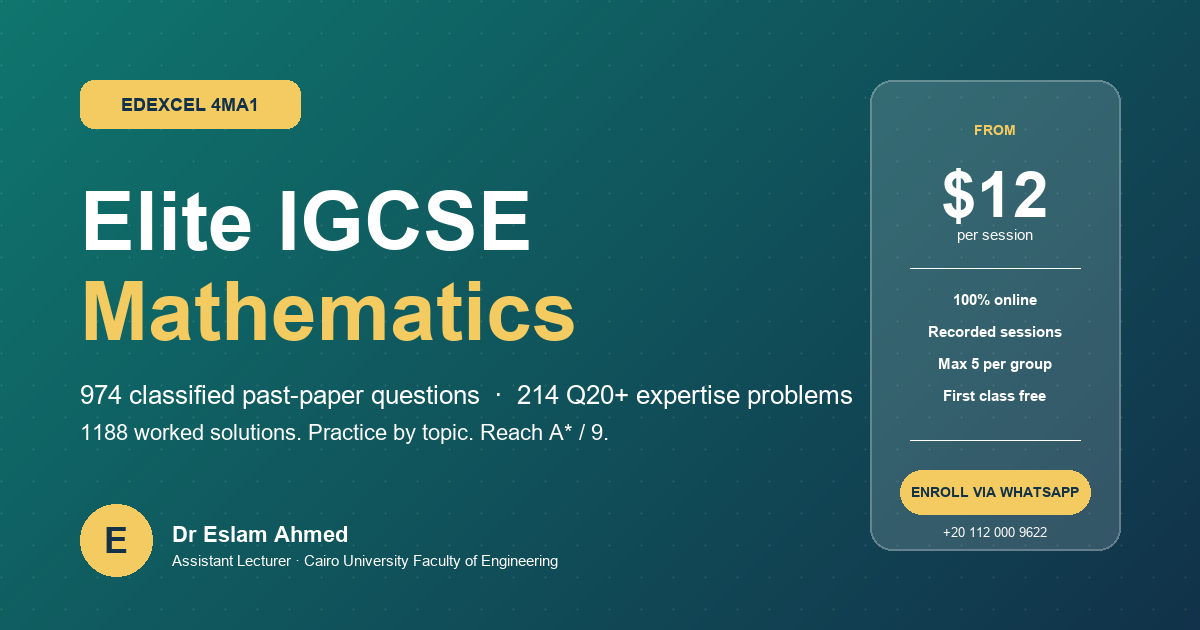
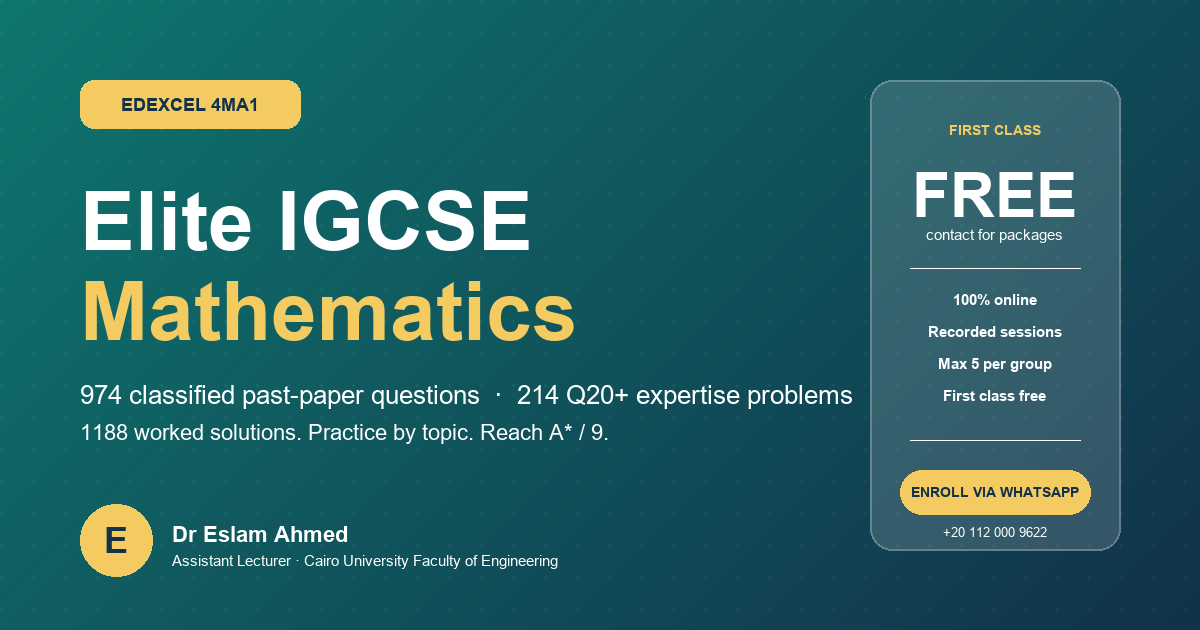
Replace fixed course prices with contact pricing

Changed region(s): [[0.74, 0.2714, 0.8942, 0.3921], [0.8017, 0.181, 0.8633, 0.2111]]

diff --git a/index.html b/index.html
@@ -13,7 +13,7 @@
   <meta property="og:image" content="assets/og-image.png">
   <meta property="og:image:width" content="1200">
   <meta property="og:image:height" content="630">
-  <meta property="og:image:alt" content="Elite IGCSE Mathematics - 974 classified questions, from $12 per session, online with Dr Eslam Ahmed.">
+  <meta property="og:image:alt" content="Elite IGCSE Mathematics - classified questions, free first class, online with Dr Eslam Ahmed.">
   <meta name="twitter:card" content="summary_large_image">
   <meta name="twitter:title" content="Elite IGCSE Mathematics - Classified Past-Paper Practice">
   <meta name="twitter:description" content="974 classified Edexcel 4MA1 questions + 214 Q20+ expertise problems. By Dr Eslam Ahmed, Cairo University.">
@@ -122,7 +122,7 @@
           <li><strong>974</strong> classified Edexcel 4MA1 questions</li>
           <li><strong>214</strong> Q20+ expertise problems</li>
           <li><strong>Linear + Modular</strong> pathway choice</li>
-          <li><strong>$12</strong>/session | 100% online | Recorded</li>
+          <li><strong>Free first class</strong> | 100% online | Recorded</li>
           <li><strong>EN + AR</strong> | taught in mixed English &amp; Arabic</li>
         </ul>
       </div>
@@ -145,7 +145,7 @@
     <section class="stats-band" aria-label="At a glance">
       <div><strong>974</strong><span>classified questions</span></div>
       <div><strong>214</strong><span>Q20+ expertise</span></div>
-      <div><strong>$12</strong><span>per session, online</span></div>
+      <div><strong>Free</strong><span>first class</span></div>
       <div><strong>9 / A*</strong><span>student outcomes</span></div>
     </section>
 
@@ -404,15 +404,15 @@
       <div class="pricing-head">
         <span class="eyebrow">Course Packages - 100% Online</span>
         <h2 id="pricingTitle">Pick the path that matches your exam date.</h2>
-        <p>All classes are live online by Zoom and every session is recorded so you can rewatch any problem. <strong>First class is free</strong> - try the course before you commit. Class times: Cairo timezone (GMT+2).</p>
+        <p>All classes are live online by Zoom and every session is recorded so you can rewatch any problem. <strong>First class is free</strong>. Message Dr Eslam for the current group, private, or intensive package details. Class times: Cairo timezone (GMT+2).</p>
       </div>
       <div class="pricing-grid">
         <article class="pricing-card">
           <header>
             <span class="p-tag">Most popular</span>
             <strong>Group Course</strong>
-            <span class="p-fee"><span class="p-old">$18</span> <span class="p-now">$12</span><span class="p-unit">/ session</span></span>
-            <span class="p-egp">Egyptian residents: <strong>350 EGP / session</strong></span>
+            <span class="p-fee"><span class="p-now">Contact</span><span class="p-unit">for current group price</span></span>
+            <span class="p-egp">First class is free. Availability changes by group and exam session.</span>
           </header>
           <ul class="p-meta">
             <li>Max <strong>5 students</strong> per group</li>
@@ -433,8 +433,8 @@
           <header>
             <span class="p-tag">Best results</span>
             <strong>Private 1-to-1</strong>
-            <span class="p-fee"><span class="p-old">$30</span> <span class="p-now">$18</span><span class="p-unit">/ session</span></span>
-            <span class="p-egp">Egyptian residents: <strong>700 EGP / session</strong></span>
+            <span class="p-fee"><span class="p-now">Contact</span><span class="p-unit">for private availability</span></span>
+            <span class="p-egp">Best for students who need a tailored plan or flexible timing.</span>
           </header>
           <ul class="p-meta">
             <li><strong>1-to-1</strong> - only you and Dr Eslam</li>
@@ -456,8 +456,8 @@
           <header>
             <span class="p-tag">Pre-exam</span>
             <strong>Intensive Sprint</strong>
-            <span class="p-fee"><span class="p-old">$40</span> <span class="p-now">$24</span><span class="p-unit">/ session</span></span>
-            <span class="p-egp">Egyptian residents: <strong>850 EGP / session</strong></span>
+            <span class="p-fee"><span class="p-now">Contact</span><span class="p-unit">for sprint options</span></span>
+            <span class="p-egp">Designed around the time left before the exam and the student's weak topics.</span>
           </header>
           <ul class="p-meta">
             <li>Small group up to <strong>5</strong> or <strong>1-to-1</strong></li>

diff --git a/about.html b/about.html
@@ -4,7 +4,7 @@
   <meta charset="utf-8">
   <meta name="viewport" content="width=device-width, initial-scale=1">
   <title>About Dr Eslam Ahmed - Elite IGCSE Mathematics</title>
-  <meta name="description" content="Dr Eslam Ahmed, Assistant Lecturer at Cairo University Faculty of Engineering, teaches Edexcel IGCSE 4MA1 Higher Mathematics online. Read student results and packages.">
+  <meta name="description" content="Dr Eslam Ahmed, Assistant Lecturer at Cairo University Faculty of Engineering, teaches Edexcel IGCSE Mathematics online. Read student results and contact him for current packages.">
   <meta property="og:type" content="profile">
   <meta property="og:title" content="About Dr Eslam Ahmed - Elite IGCSE Mathematics">
   <meta property="og:description" content="Cairo University engineer | Edexcel 4MA1 Higher specialist | 974 classified questions | A* / 9 student results.">
@@ -109,15 +109,15 @@
       <div class="pricing-head">
         <span class="eyebrow">Course Packages - 100% Online</span>
         <h2 id="pricingTitle">Pick the path that matches your exam date.</h2>
-        <p>All classes are live online by Zoom and every session is recorded so you can rewatch any problem. <strong>First class is free</strong> - try the course before you commit. Class times: Cairo timezone (GMT+2).</p>
+        <p>All classes are live online by Zoom and every session is recorded so you can rewatch any problem. <strong>First class is free</strong>. Message Dr Eslam for current group, private, or intensive package details. Class times: Cairo timezone (GMT+2).</p>
       </div>
       <div class="pricing-grid">
         <article class="pricing-card">
           <header>
             <span class="p-tag">Most popular</span>
             <strong>Group Course</strong>
-            <span class="p-fee"><span class="p-old">$18</span> <span class="p-now">$12</span><span class="p-unit">/ session</span></span>
-            <span class="p-egp">Egyptian residents: <strong>350 EGP / session</strong></span>
+            <span class="p-fee"><span class="p-now">Contact</span><span class="p-unit">for current group price</span></span>
+            <span class="p-egp">First class is free. Availability changes by group and exam session.</span>
           </header>
           <ul class="p-meta">
             <li>Max <strong>5 students</strong> per group</li>
@@ -138,8 +138,8 @@
           <header>
             <span class="p-tag">Best results</span>
             <strong>Private 1-to-1</strong>
-            <span class="p-fee"><span class="p-old">$30</span> <span class="p-now">$18</span><span class="p-unit">/ session</span></span>
-            <span class="p-egp">Egyptian residents: <strong>700 EGP / session</strong></span>
+            <span class="p-fee"><span class="p-now">Contact</span><span class="p-unit">for private availability</span></span>
+            <span class="p-egp">Best for students who need a tailored plan or flexible timing.</span>
           </header>
           <ul class="p-meta">
             <li><strong>1-to-1</strong> - only you and Dr Eslam</li>
@@ -161,8 +161,8 @@
           <header>
             <span class="p-tag">Pre-exam</span>
             <strong>Intensive Sprint</strong>
-            <span class="p-fee"><span class="p-old">$40</span> <span class="p-now">$24</span><span class="p-unit">/ session</span></span>
-            <span class="p-egp">Egyptian residents: <strong>850 EGP / session</strong></span>
+            <span class="p-fee"><span class="p-now">Contact</span><span class="p-unit">for sprint options</span></span>
+            <span class="p-egp">Designed around the time left before the exam and the student's weak topics.</span>
           </header>
           <ul class="p-meta">
             <li>Small group up to <strong>5</strong> or <strong>1-to-1</strong></li>

diff --git a/styles.css b/styles.css
@@ -1352,7 +1352,7 @@ p { margin: 4px 0 0; color: var(--muted); }
 .pricing-card strong { font-size: 20px; }
 .p-fee { font-size: 14px; display: flex; align-items: baseline; gap: 8px; flex-wrap: wrap; }
 .p-old { text-decoration: line-through; opacity: 0.55; font-size: 14px; }
-.p-now { font-size: 26px; font-weight: 800; color: var(--accent); letter-spacing: -0.5px; }
+.p-now { font-size: 26px; font-weight: 800; color: var(--accent); letter-spacing: 0; }
 .pricing-card.highlight .p-now { color: #f4cb61; }
 .p-unit { font-size: 12px; opacity: 0.75; }
 .p-egp { display: block; font-size: 12px; margin-top: 4px; opacity: 0.75; }

diff --git a/service-worker.js b/service-worker.js
@@ -1,5 +1,5 @@
-const CACHE_VERSION = "elite-igcse-v26";
-const RUNTIME_CACHE = "elite-igcse-runtime-v26";
+const CACHE_VERSION = "elite-igcse-v27";
+const RUNTIME_CACHE = "elite-igcse-runtime-v27";
 
 const APP_SHELL = [
   "./",

diff --git a/assets/build_og.py b/assets/build_og.py
@@ -101,7 +101,7 @@ def main():
     draw.text((172, cy + 12), "Assistant Lecturer · Cairo University Faculty of Engineering",
               font=font(15, bold=False), fill=(255, 255, 255, 199))
 
-    # Right-side price card — drawn on a separate transparent layer
+    # Right-side enrollment card — drawn on a separate transparent layer
     card_layer = Image.new("RGBA", (W, H), (0, 0, 0, 0))
     cdraw = ImageDraw.Draw(card_layer, "RGBA")
     card = (870, 80, 1120, 550)
@@ -112,9 +112,9 @@ def main():
     draw = ImageDraw.Draw(img, "RGBA")
 
     cx = (card[0] + card[2]) // 2
-    draw.text((cx, 130), "FROM", anchor="mm", font=font(14, bold=True), fill=GOLD)
-    draw.text((cx, 195), "$12", anchor="mm", font=font(64, bold=True), fill=WHITE)
-    draw.text((cx, 235), "per session", anchor="mm", font=font(15, bold=False), fill=(255, 255, 255, 200))
+    draw.text((cx, 130), "FIRST CLASS", anchor="mm", font=font(14, bold=True), fill=GOLD)
+    draw.text((cx, 195), "FREE", anchor="mm", font=font(62, bold=True), fill=WHITE)
+    draw.text((cx, 235), "contact for packages", anchor="mm", font=font(15, bold=False), fill=(255, 255, 255, 200))
 
     draw.line((card[0] + 40, 268, card[2] - 40, 268), fill=(255, 255, 255, 80), width=1)
 
